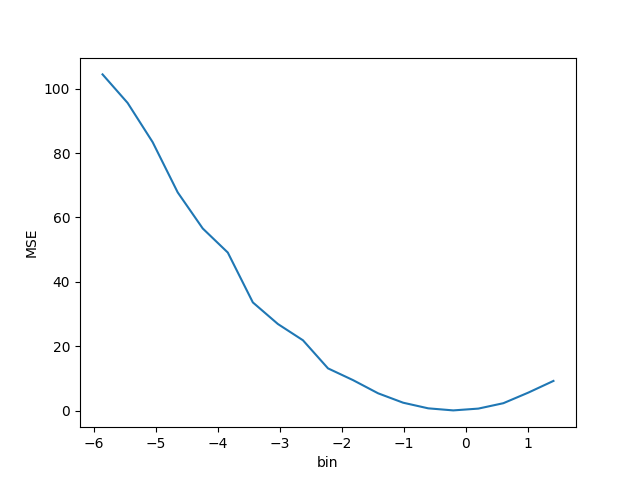
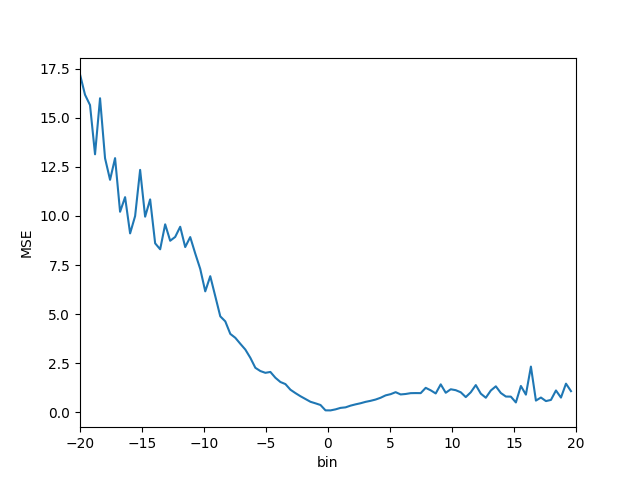
wip

diff --git a/load_model.py b/load_model.py
@@ -92,10 +92,19 @@ if __name__ == '__main__':
     print("Validation loss: ", val_loss)
     print("Training loss: ", train_loss)
 
-    #make_scatter(train_out, train_target, name = "train", save = True)
-    #make_scatter(val_out, val_target, name = "val", save = True)
+    # %% 
+
 
     make_MSE_x(val_out, val_target, name = "val", save = True)
     make_MSE_x(train_out, train_target, name = "train", save = True)
+
+
+
+    print('-' * 89)
+    print('Make Scatter...')
+    print('-' * 89)
+
+    make_scatter(train_out, train_target, name = "train", save = True)
+    make_scatter(val_out, val_target, name = "val", save = True)
 
 

diff --git a/trainer.py b/trainer.py
@@ -49,7 +49,7 @@ def train(model, criterion, optimizer, train_dataloader, scheduler, epoch, wandb
 
             src_padding_mask = (data != wandb.config.padding_idx).transpose(0, 1)
             
-            with autocast(False):
+            with autocast(True):
                 output = model(data) 
                 loss = criterion(output.squeeze(), target.squeeze())
                 loss = loss / len(data_chunks)

diff --git a/plot_results.py b/plot_results.py
@@ -65,8 +65,7 @@ def make_MSE_x(prediciton, target, name = '', path = '', save=False):
     plt.ylabel('MSE')
     plt.xlabel('bin')
     plt.xlim(-20,20)
-    # set the xticks to be the middle of the bins
-    plt.xticks(bins[:-1] + 0.5)
+
     if save:
         plt.savefig(path + 'MSE_' + name)
  
